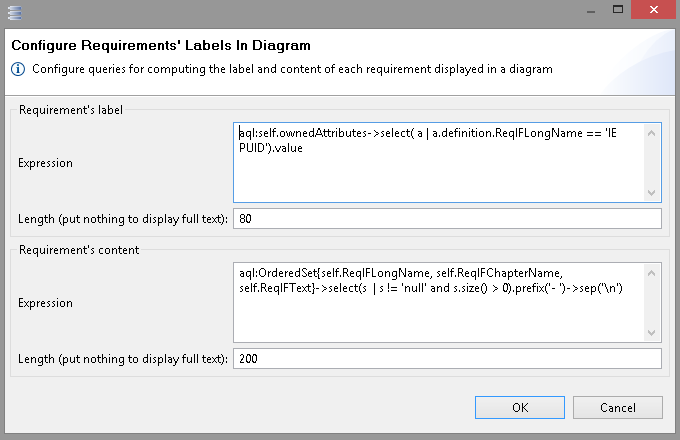
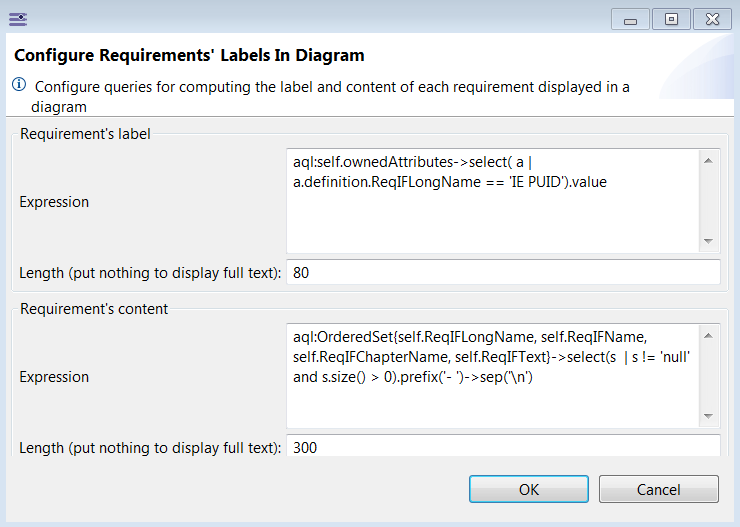
#116 Keep line feed characters when displaying ReqIF text in diagrams.
Fixes #116

Changed region(s): [[0.0, 0.0, 1.0, 1.0]]

diff --git a/plugins/org.polarsys.kitalpha.vp.requirements.model.helpers/src/org/polarsys/kitalpha/vp/requirements/model/helpers/LabelHelper.java b/plugins/org.polarsys.kitalpha.vp.requirements.model.helpers/src/org/polarsys/kitalpha/vp/requirements/model/helpers/LabelHelper.java
@@ -20,7 +20,11 @@ public class LabelHelper {
     // Private constructor
   }
   public static String transformHTMLToText(String content) {
-    content = content.replaceAll("<[^>]*>", "").replaceAll("\r\n", " ").replaceAll("\n", " ").trim();
+    return transformHTMLToTextWithLineFeed(content).replace("\r\n", " ").replace("\n", " ").trim();
+  }
+  
+  public static String transformHTMLToTextWithLineFeed(String content) {
+    content = content.replaceAll("<[^>]*>", "").trim();
     // Decode special characters
     content = URI.decode(content);
     // Unescape HTML special character entities

diff --git a/plugins/org.polarsys.capella.vp.requirements.design/src/org/polarsys/capella/vp/requirements/design/service/CapellaRequirementsOpenJavaService.java b/plugins/org.polarsys.capella.vp.requirements.design/src/org/polarsys/capella/vp/requirements/design/service/CapellaRequirementsOpenJavaService.java
@@ -387,7 +387,7 @@ public class CapellaRequirementsOpenJavaService {
             resultBuilder.append(value);
           }
           String evaluationResult = resultBuilder.toString();
-          String sanytizedResult = LabelHelper.transformHTMLToText(evaluationResult);
+          String sanytizedResult = LabelHelper.transformHTMLToTextWithLineFeed(evaluationResult);
 
           return reduceString(sanytizedResult, maxLength);
         }
